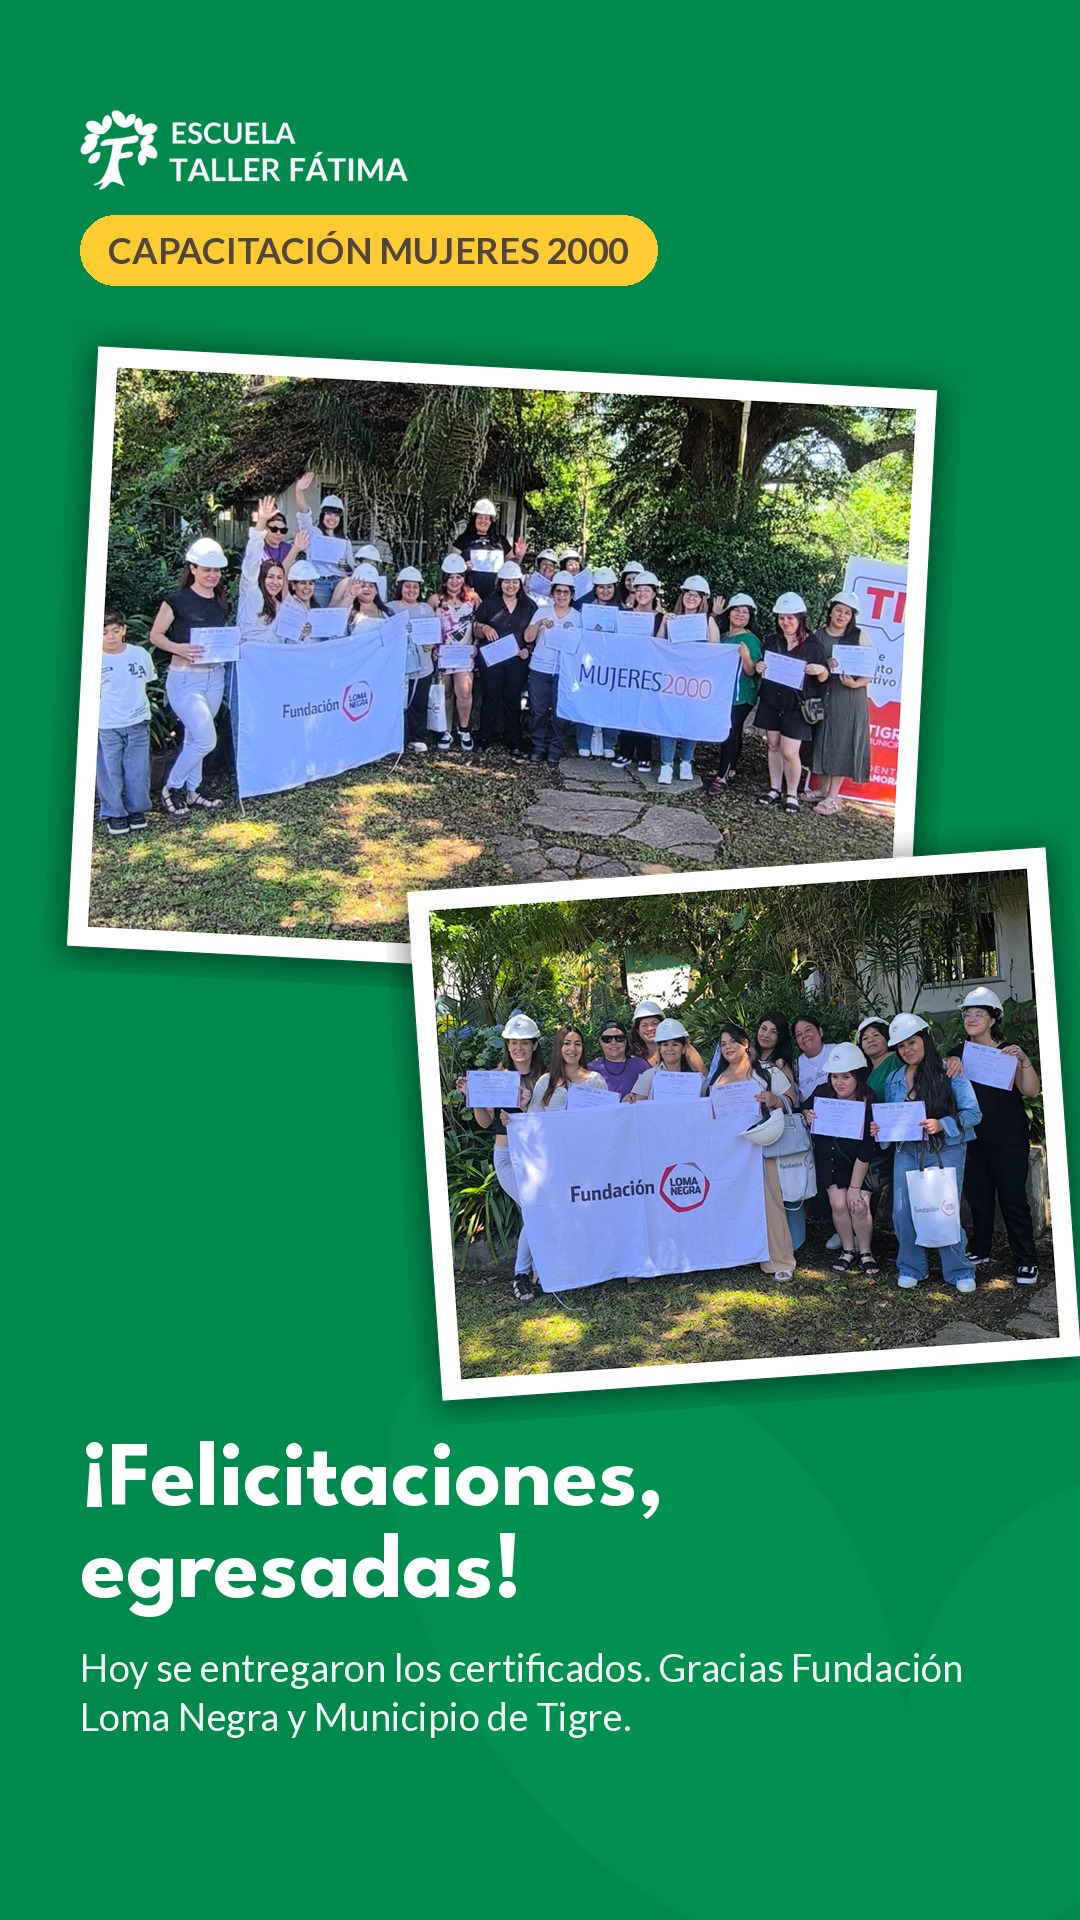
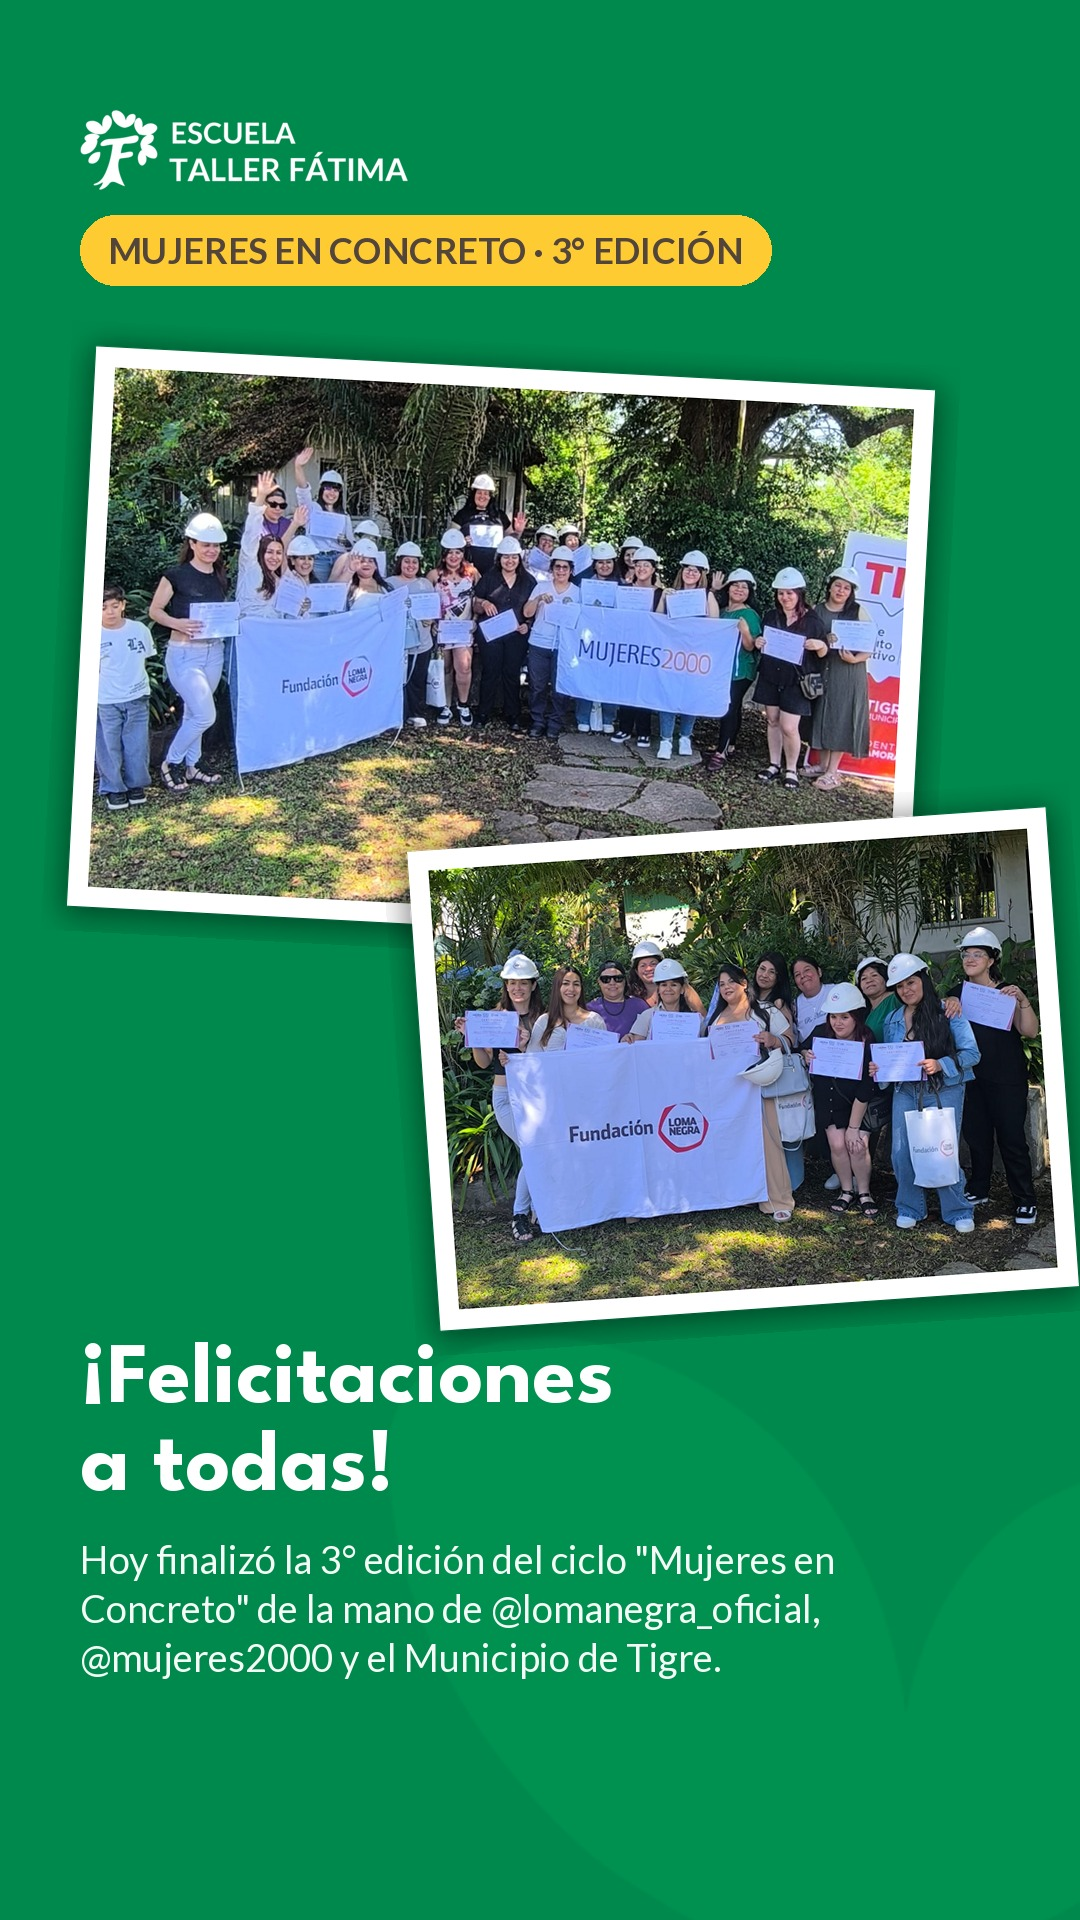
Fátima: historia Mujeres en Concreto con el texto de la clienta
Claude-Session: https://claude.ai/code/session_01A1E79ha6BujniUrQ7LXZ3T

diff --git a/clientes/tallerfatima/plan/index.html b/clientes/tallerfatima/plan/index.html
@@ -63,7 +63,7 @@ footer a{color:var(--agua)}
     <div>
       <h1>Publicaciones para aprobar</h1>
       <p>Estas son las piezas preparadas para <strong>@escuelatallerfatima</strong>, con día, hora y texto. Están hechas con fotos y videos del banco de la escuela y con los colores y tipografías del manual de marca. <strong>Nada se publica sin aprobación.</strong> Lo que aprueben sale solo a la hora indicada.</p>
-      <div class="upd" id="upd">Última actualización: jueves 19/11/2026 · 12:35 h · hoy Mujeres 2000; la Expo se corre un día</div>
+      <div class="upd" id="upd">Última actualización: jueves 19/11/2026 · 13:00 h · historia "Mujeres en Concreto" con el texto de la clienta</div>
     </div>
     <aside class="how">
       <h2>Cómo aprobar</h2>
